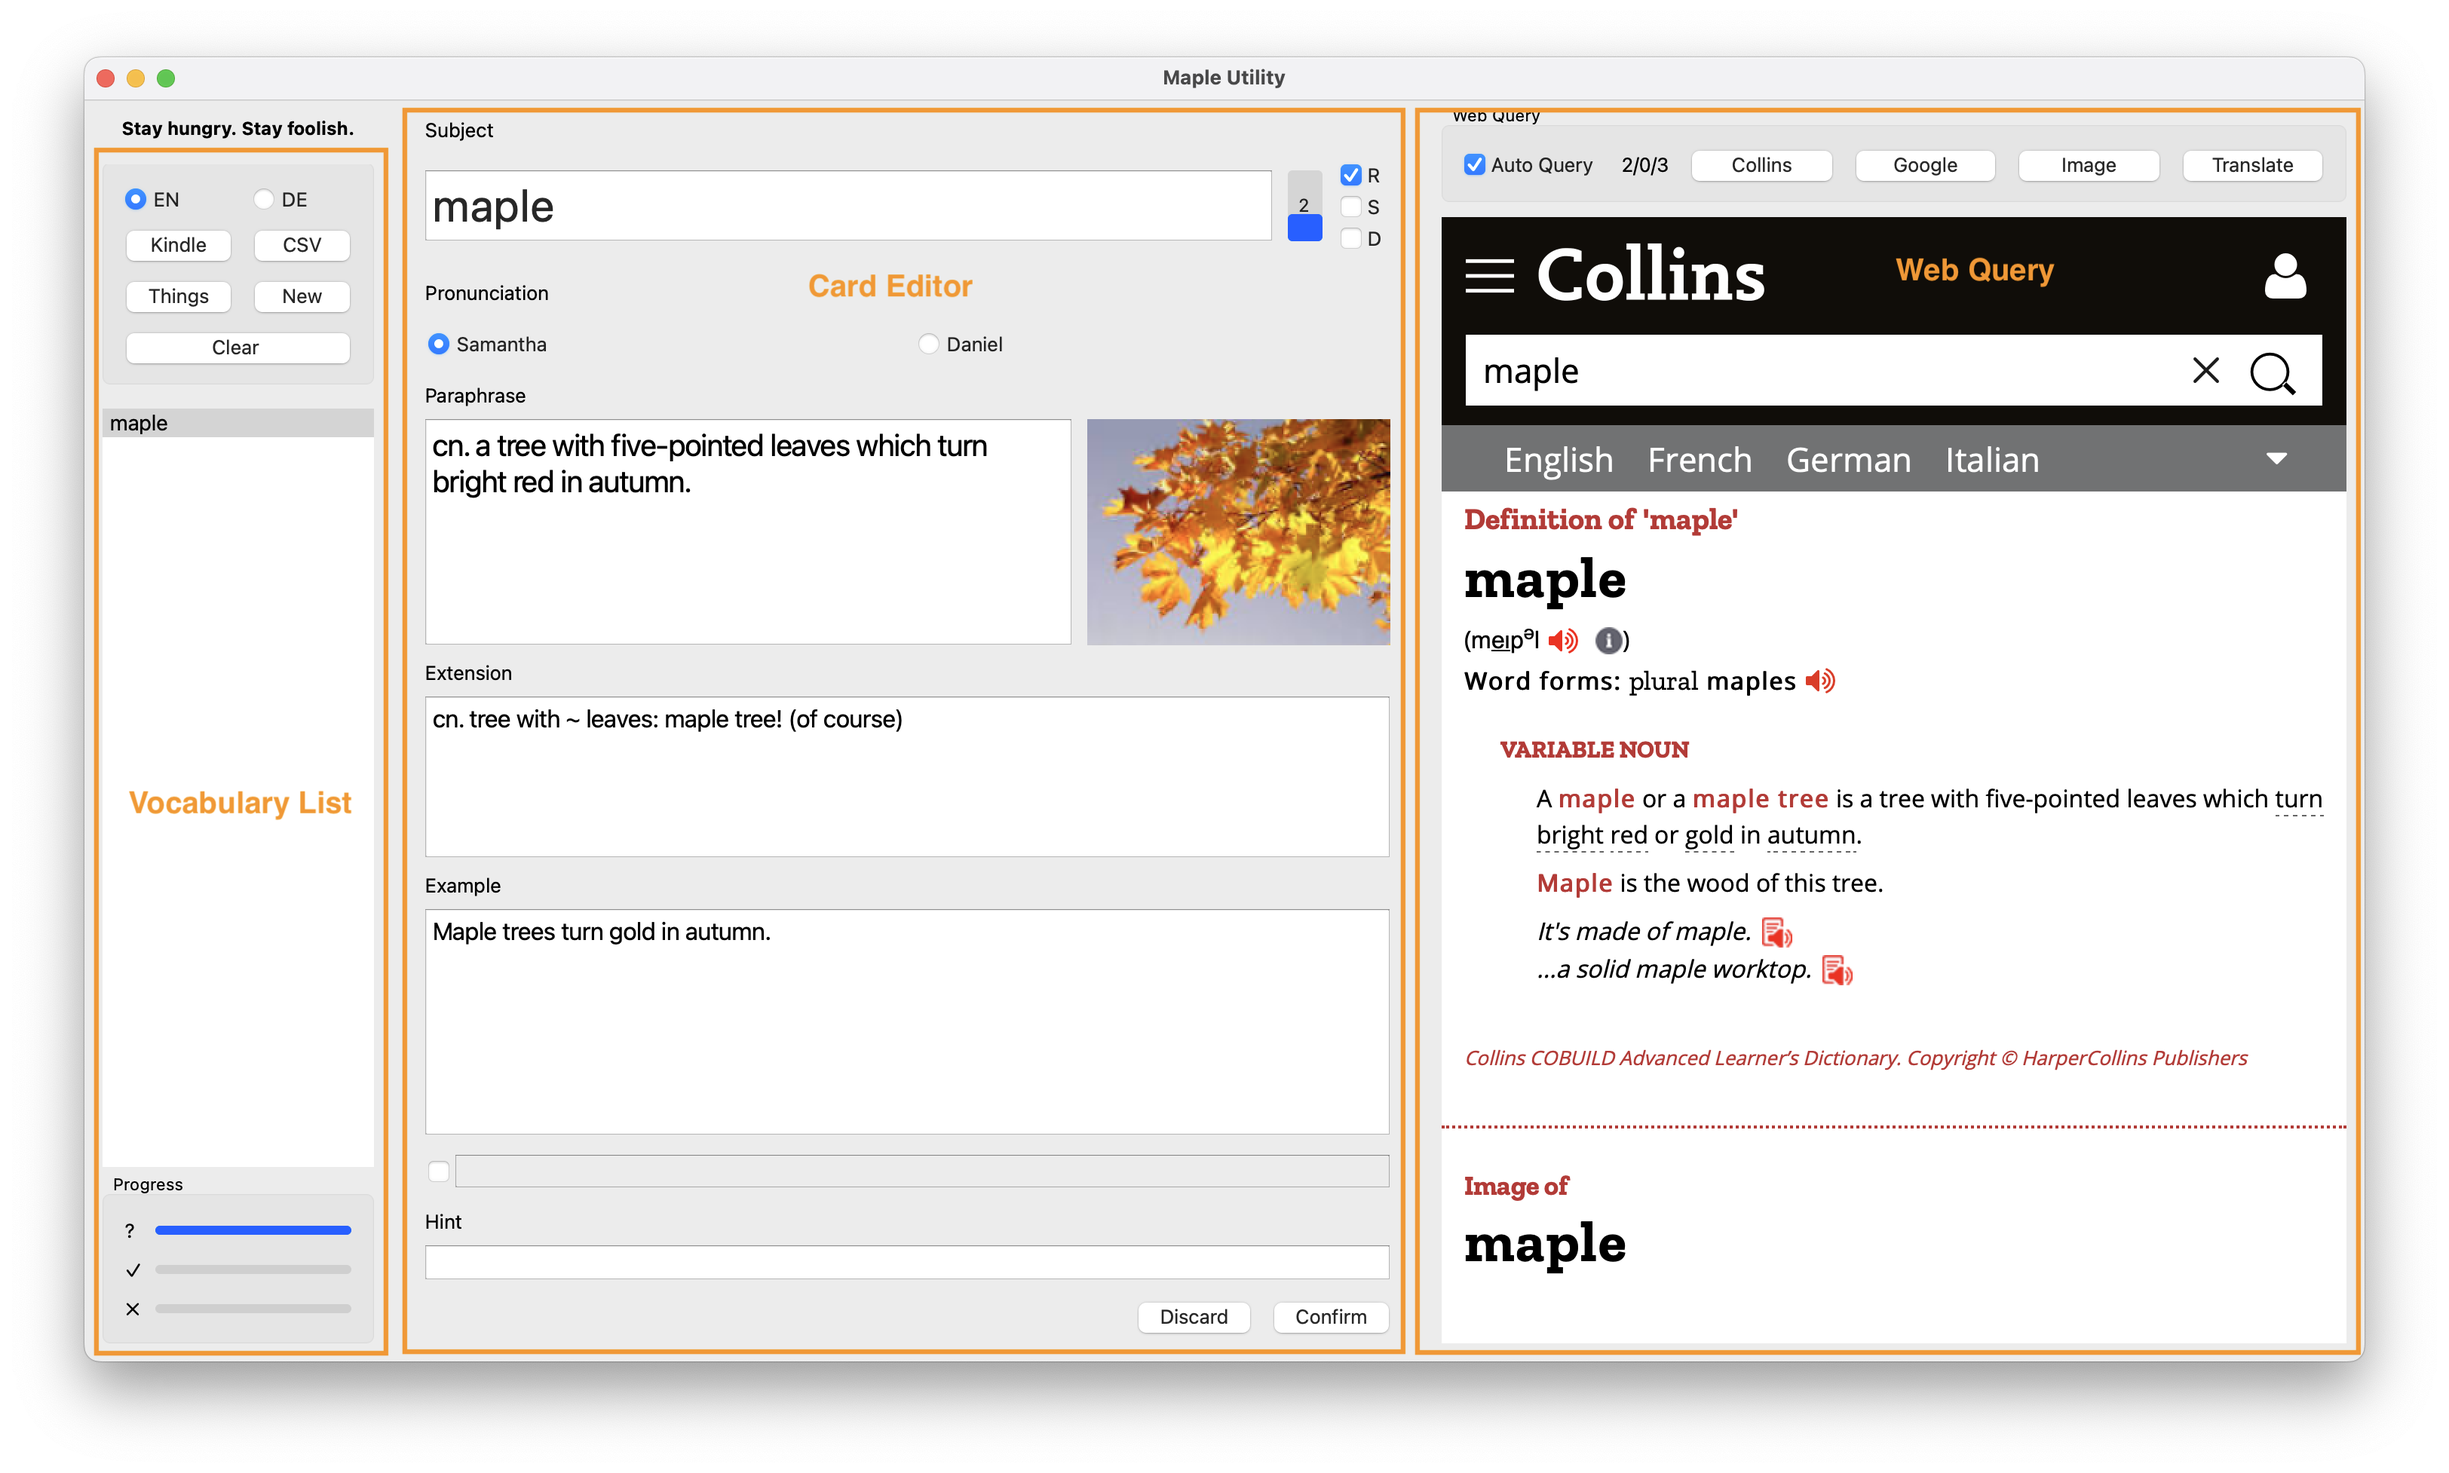
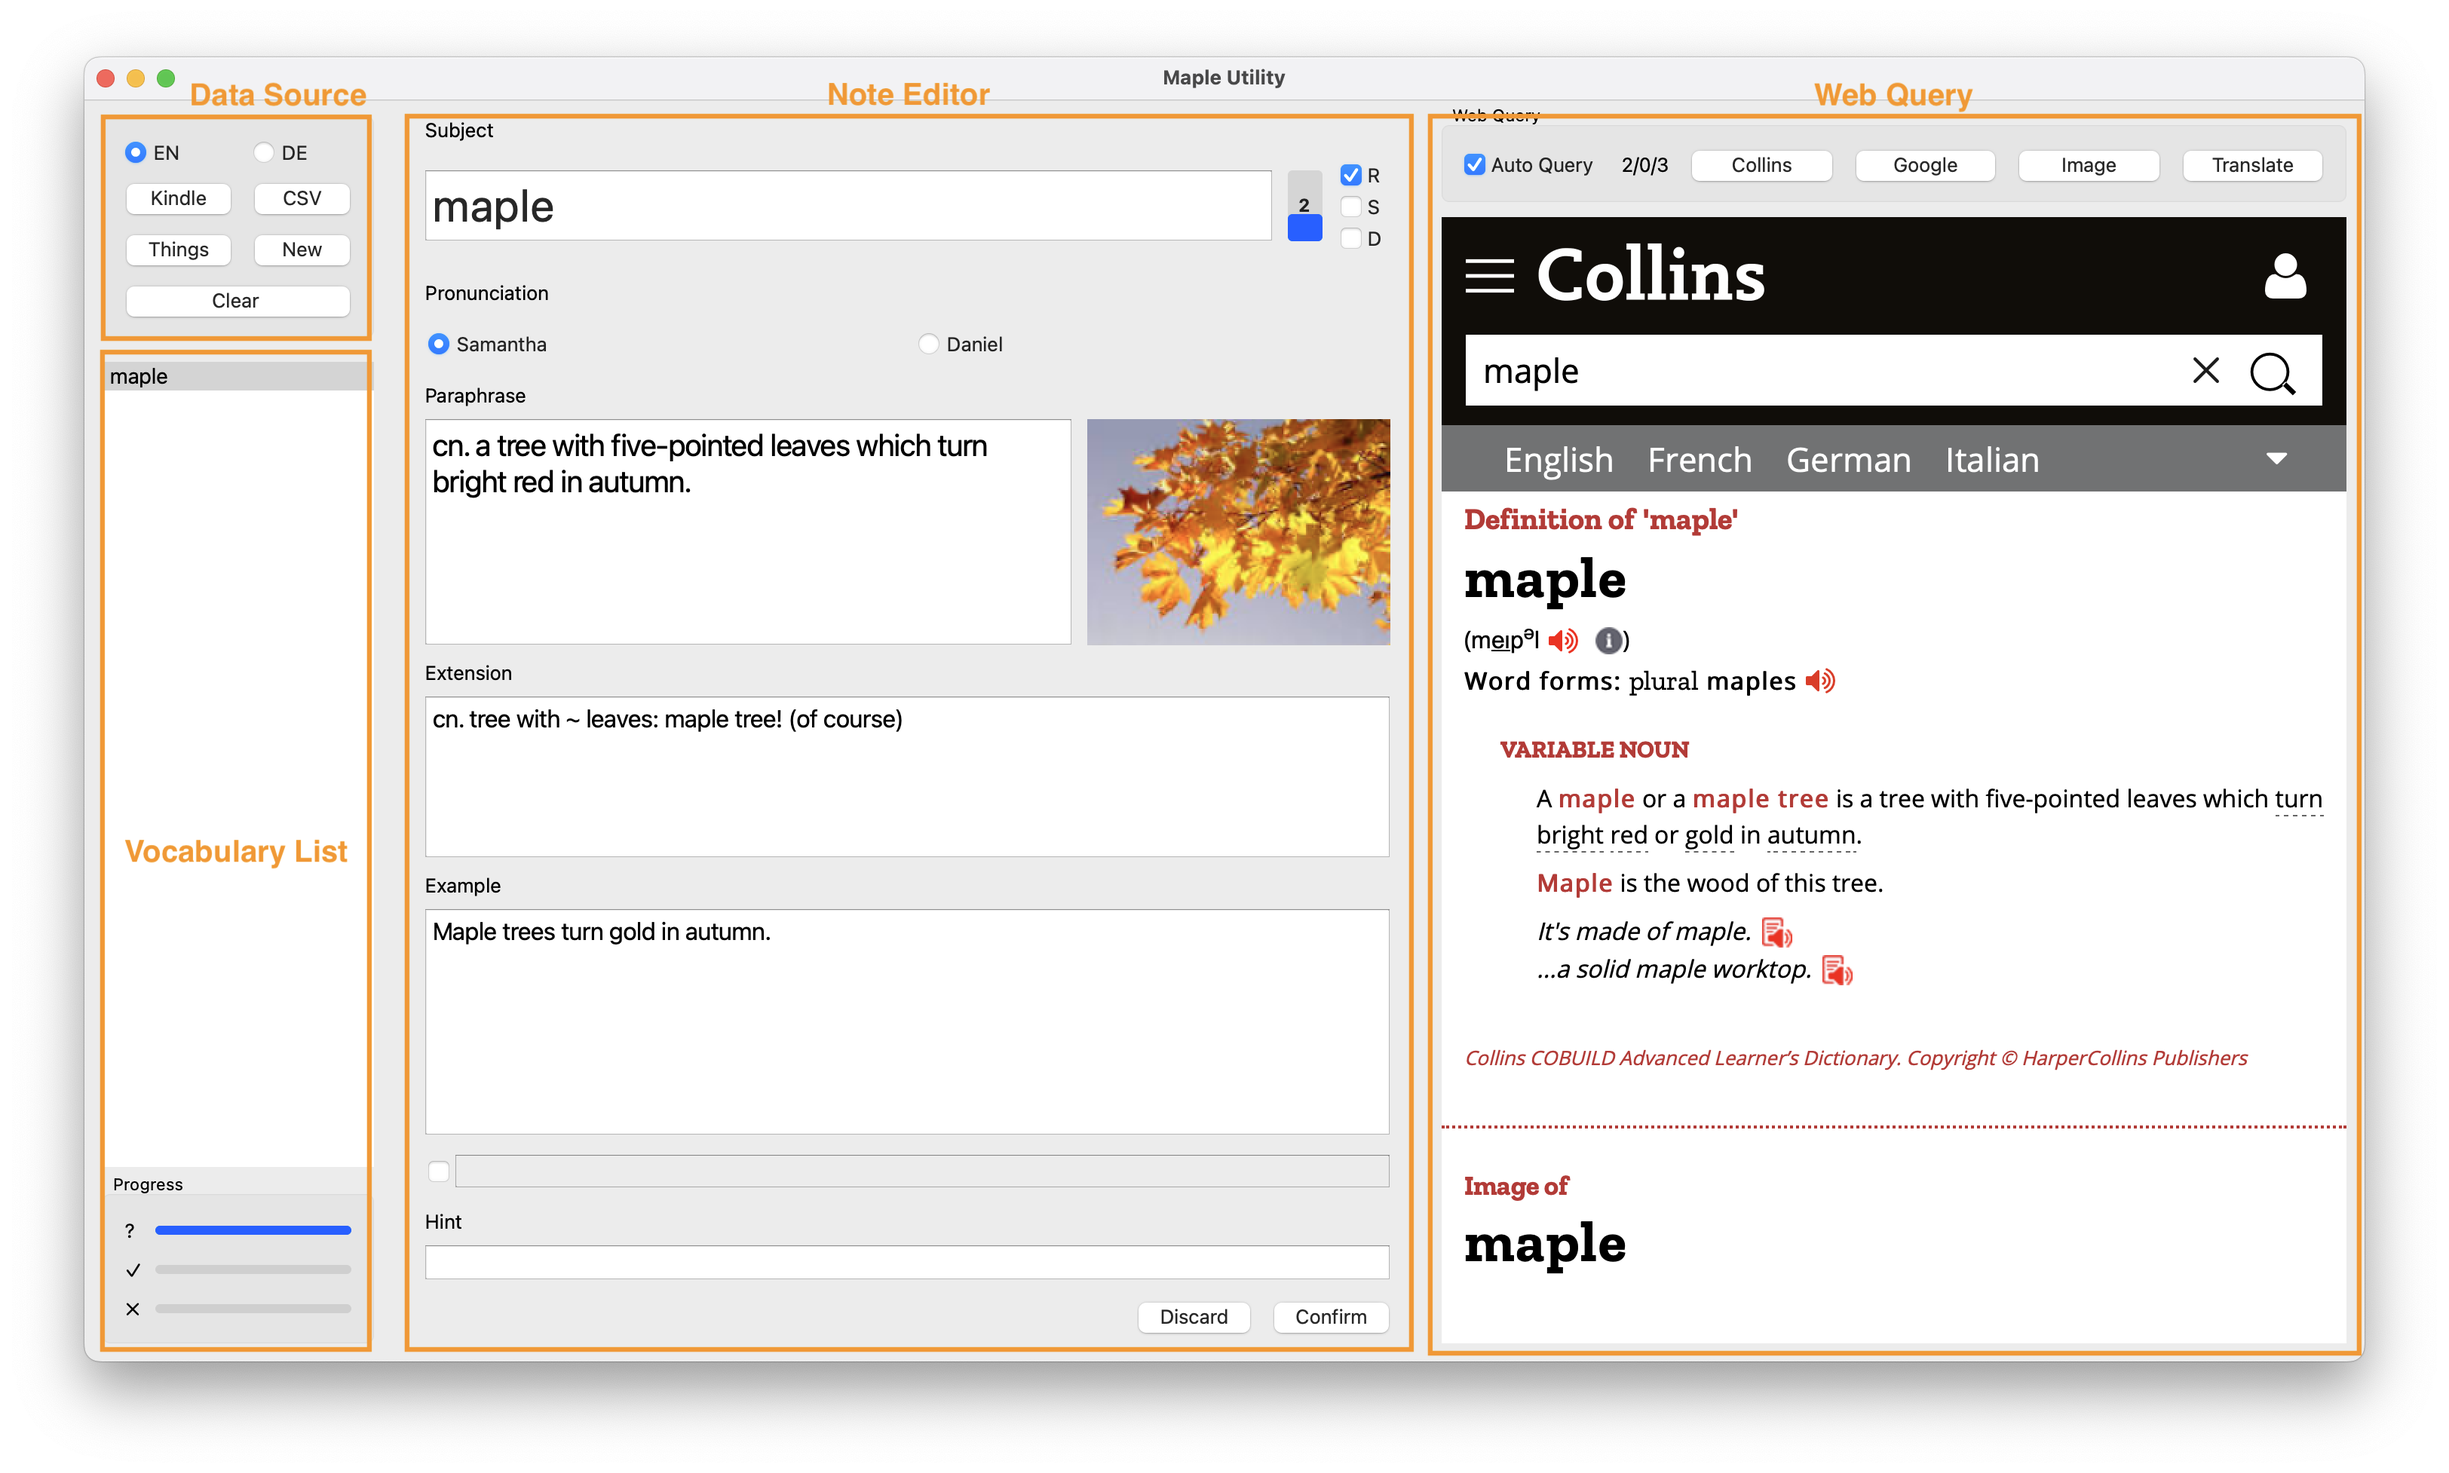
Update UI

Changed region(s): [[0.0311, 0.0624, 0.964, 0.9365], [0.7774, 0.1561, 0.8396, 0.1873], [0.3421, 0.1873, 0.4042, 0.2185]]

diff --git a/maple_utility.py b/maple_utility.py
@@ -1,6 +1,6 @@
 # Form implementation generated from reading ui file 'maple_utility.ui'
 #
-# Created by: PyQt6 UI code generator 6.2.0
+# Created by: PyQt6 UI code generator 6.2.1
 #
 # WARNING: Any manual changes made to this file will be lost when pyuic6 is
 # run again.  Do not edit this file unless you know what you are doing.
@@ -33,9 +33,6 @@ class Ui_MapleUtility(object):
         self.widget_2.setObjectName("widget_2")
         self.verticalLayout = QtWidgets.QVBoxLayout(self.widget_2)
         self.verticalLayout.setObjectName("verticalLayout")
-        self.label_7 = QtWidgets.QLabel(self.widget_2)
-        self.label_7.setObjectName("label_7")
-        self.verticalLayout.addWidget(self.label_7)
         self.groupBox_2 = QtWidgets.QGroupBox(self.widget_2)
         self.groupBox_2.setTitle("")
         self.groupBox_2.setObjectName("groupBox_2")
@@ -175,7 +172,6 @@ class Ui_MapleUtility(object):
         font = QtGui.QFont()
         font.setPointSize(12)
         font.setBold(True)
-        font.setWeight(75)
         self.freqBar.setFont(font)
         self.freqBar.setLayoutDirection(QtCore.Qt.LayoutDirection.LeftToRight)
         self.freqBar.setStyleSheet("QProgressBar {\n"
@@ -401,7 +397,6 @@ class Ui_MapleUtility(object):
     def retranslateUi(self, MapleUtility):
         _translate = QtCore.QCoreApplication.translate
         MapleUtility.setWindowTitle(_translate("MapleUtility", "Maple Utility"))
-        self.label_7.setText(_translate("MapleUtility", "<html><head/><body><p align=\"center\"><span style=\" font-size:12pt; font-weight:600;\">Stay hungry.&nbsp;Stay foolish.</span></p></body></html>"))
         self.loadCSV.setText(_translate("MapleUtility", "CSV"))
         self.loadKindle.setText(_translate("MapleUtility", "Kindle"))
         self.englishMode.setText(_translate("MapleUtility", "EN"))
@@ -426,8 +421,11 @@ class Ui_MapleUtility(object):
         self.pronB.setText(_translate("MapleUtility", "Daniel"))
         self.label_3.setText(_translate("MapleUtility", "Paraphrase"))
         self.paraphrase.setHtml(_translate("MapleUtility", "<!DOCTYPE HTML PUBLIC \"-//W3C//DTD HTML 4.0//EN\" \"http://www.w3.org/TR/REC-html40/strict.dtd\">\n"
-"<html><head><meta name=\"qrichtext\" content=\"1\" /><style type=\"text/css\">\n"
+"<html><head><meta name=\"qrichtext\" content=\"1\" /><meta charset=\"utf-8\" /><style type=\"text/css\">\n"
 "p, li { white-space: pre-wrap; }\n"
+"hr { height: 1px; border-width: 0; }\n"
+"li.unchecked::marker { content: \"\\2610\"; }\n"
+"li.checked::marker { content: \"\\2612\"; }\n"
 "</style></head><body style=\" font-family:\'.AppleSystemUIFont\'; font-size:20pt; font-weight:400; font-style:normal;\">\n"
 "<p style=\"-qt-paragraph-type:empty; margin-top:0px; margin-bottom:0px; margin-left:0px; margin-right:0px; -qt-block-indent:0; text-indent:0px;\"><br /></p></body></html>"))
         self.imageLabel.setToolTip(_translate("MapleUtility", "Right click to search image on Google Image"))
@@ -435,13 +433,19 @@ class Ui_MapleUtility(object):
         self.label_4.setText(_translate("MapleUtility", "Extension"))
         self.label_5.setText(_translate("MapleUtility", "Example"))
         self.example.setHtml(_translate("MapleUtility", "<!DOCTYPE HTML PUBLIC \"-//W3C//DTD HTML 4.0//EN\" \"http://www.w3.org/TR/REC-html40/strict.dtd\">\n"
-"<html><head><meta name=\"qrichtext\" content=\"1\" /><style type=\"text/css\">\n"
+"<html><head><meta name=\"qrichtext\" content=\"1\" /><meta charset=\"utf-8\" /><style type=\"text/css\">\n"
 "p, li { white-space: pre-wrap; }\n"
+"hr { height: 1px; border-width: 0; }\n"
+"li.unchecked::marker { content: \"\\2610\"; }\n"
+"li.checked::marker { content: \"\\2612\"; }\n"
 "</style></head><body style=\" font-family:\'.AppleSystemUIFont\'; font-size:16pt; font-weight:400; font-style:normal;\">\n"
 "<p style=\"-qt-paragraph-type:empty; margin-top:0px; margin-bottom:0px; margin-left:0px; margin-right:0px; -qt-block-indent:0; text-indent:0px;\"><br /></p></body></html>"))
         self.source.setHtml(_translate("MapleUtility", "<!DOCTYPE HTML PUBLIC \"-//W3C//DTD HTML 4.0//EN\" \"http://www.w3.org/TR/REC-html40/strict.dtd\">\n"
-"<html><head><meta name=\"qrichtext\" content=\"1\" /><style type=\"text/css\">\n"
+"<html><head><meta name=\"qrichtext\" content=\"1\" /><meta charset=\"utf-8\" /><style type=\"text/css\">\n"
 "p, li { white-space: pre-wrap; }\n"
+"hr { height: 1px; border-width: 0; }\n"
+"li.unchecked::marker { content: \"\\2610\"; }\n"
+"li.checked::marker { content: \"\\2612\"; }\n"
 "</style></head><body style=\" font-family:\'.AppleSystemUIFont\'; font-size:13pt; font-weight:400; font-style:normal;\">\n"
 "<p style=\"-qt-paragraph-type:empty; margin-top:0px; margin-bottom:0px; margin-left:0px; margin-right:0px; -qt-block-indent:0; text-indent:0px;\"><br /></p></body></html>"))
         self.label_6.setText(_translate("MapleUtility", "Hint"))
